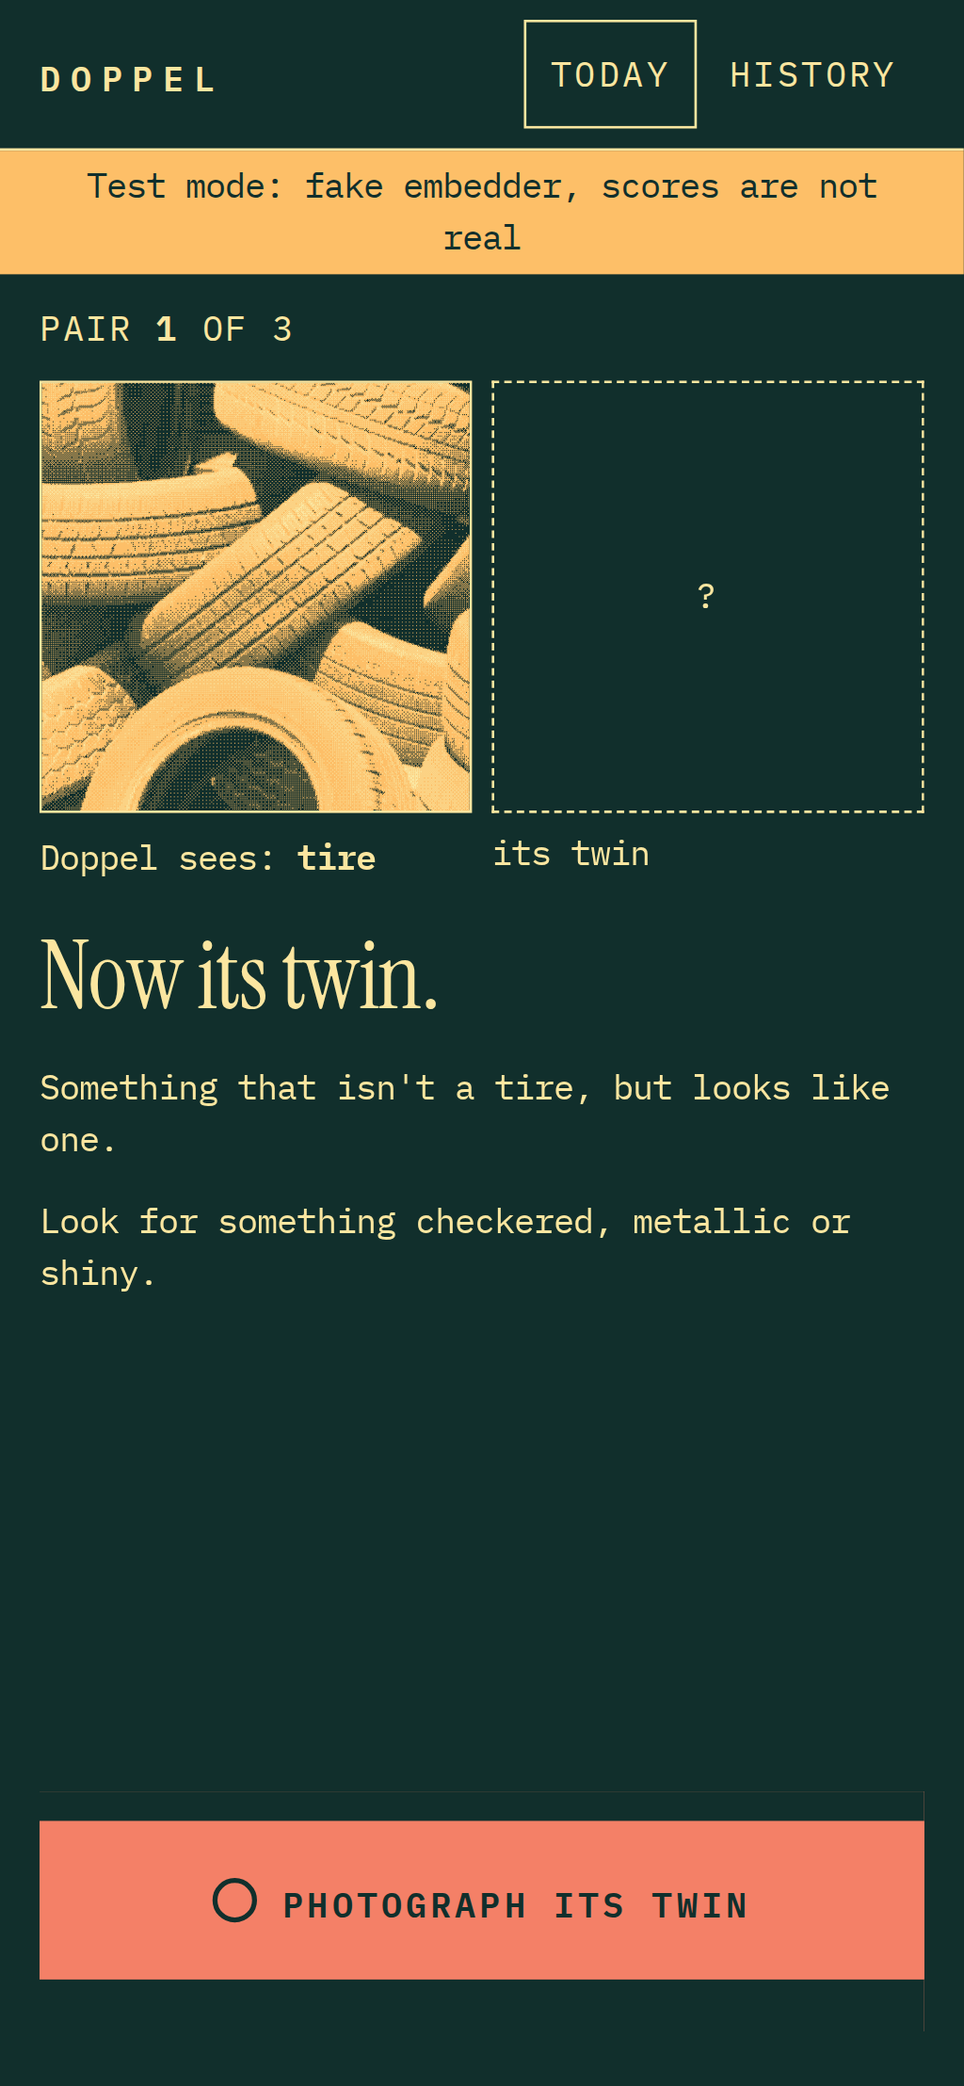
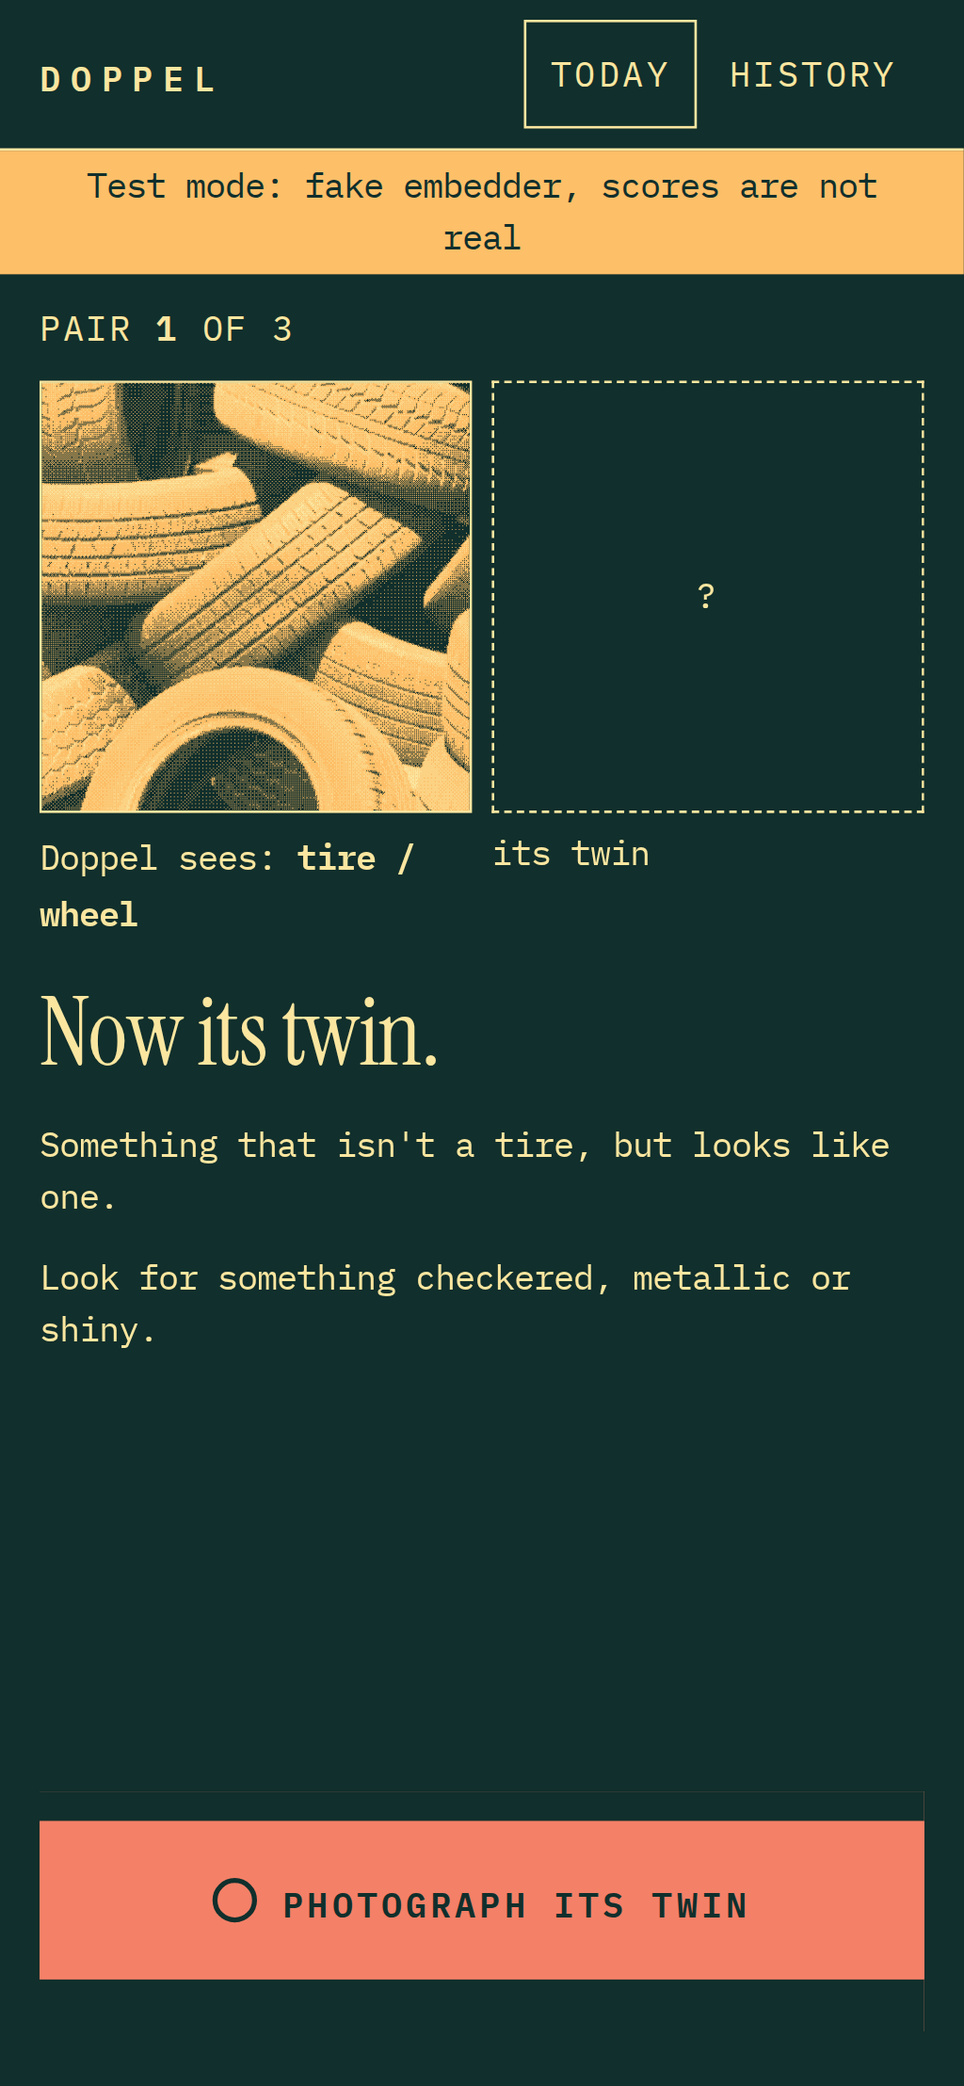
F1: never refuse a clear photo over near-synonym labels; show cloud / sky; regression tests on real vectors

diff --git a/web/src/twin.ts b/web/src/twin.ts
@@ -15,7 +15,9 @@ export interface TwinConfig {
   bands: { uncanny: number; cousins: number; distant: number };
   duplicateSim: number; // photo-photo cosine above this = the same thing twice
   sameKindTextSim: number; // label-label text cosine at or above this = same kind of thing
-  margin: number; // below this the label is a coin toss
+  margin: number; // below this (and below minTopSim) the label is a coin toss
+  synonymTextSim: number; // labels at least this close are near-synonyms ("cloud / sky"), not rivals
+  minTopSim: number; // a photo whose top label is at least this close is never "uncertain"
   attrZ: number; // shared attribute threshold (z-score, both photos)
   attr: { labels: string[]; mu: number[]; sd: number[] };
 }
@@ -79,6 +81,8 @@ export function band(score: number, cfg: Pick<TwinConfig, "bands"> = TWIN): Band
 export interface Reading {
   index: number; // vocab row of the top label
   label: string;
+  alt?: string; // runner-up when it's a near-synonym: "Doppel sees: cloud / sky"
+  topSim: number;
   kind: Kind;
   margin: number;
   /** z-score per attribute, in TwinConfig.attr.labels order */
@@ -111,11 +115,16 @@ export function readPhoto(photo: ArrayLike<number>, vocab: LabelVocab, cfg: Twin
   }
   if (top < 0) throw new Error("vocab has no labels");
   let rival = -Infinity;
+  let second = -1;
   for (let i = 0; i < sims.length; i++) {
     if (i === top || vocab.items[i].kind === "attr") continue;
-    if (labelSim(vocab, top, i) >= cfg.sameKindTextSim) continue; // a synonym isn't a rival
+    if (second < 0 || sims[i] > sims[second]) second = i;
+    if (labelSim(vocab, top, i) >= cfg.synonymTextSim) continue; // a near-synonym isn't a rival
     rival = Math.max(rival, sims[i]);
   }
+  const alt = second >= 0 && vocab.items[second].kind === vocab.items[top].kind && labelSim(vocab, top, second) >= cfg.synonymTextSim
+    ? vocab.items[second].label
+    : undefined;
 
   const byLabel = new Map<string, number>();
   vocab.items.forEach((it, i) => it.kind === "attr" && byLabel.set(it.label, i));
@@ -128,6 +137,8 @@ export function readPhoto(photo: ArrayLike<number>, vocab: LabelVocab, cfg: Twin
   return {
     index: top,
     label: vocab.items[top].label,
+    ...(alt ? { alt } : {}),
+    topSim: sims[top],
     kind: vocab.items[top].kind,
     margin: Number.isFinite(rival) ? sims[top] - rival : 1,
     attrZ,
@@ -145,9 +156,12 @@ export const PROBLEM_TEXT: Record<Problem, string> = {
 };
 
 /** Any photo: must be outdoors-ish and legible. */
-export function checkShot(r: Reading, cfg: Pick<TwinConfig, "margin"> = TWIN): Problem | undefined {
+export function checkShot(r: Reading, cfg: Pick<TwinConfig, "margin" | "minTopSim"> = TWIN): Problem | undefined {
   if (r.kind === "reject") return "outside";
-  if (r.kind === "unclear" || r.margin < cfg.margin) return "uncertain";
+  if (r.kind === "unclear") return "uncertain";
+  // Only a coin toss between different kinds AND a weak match is "can't tell" (F1: a clear
+  // cloud sits between "cloud" and "sky" and must never be refused).
+  if (r.margin < cfg.margin && r.topSim < cfg.minTopSim) return "uncertain";
   return undefined;
 }
 

diff --git a/web/src/ui/screens.ts b/web/src/ui/screens.ts
@@ -32,7 +32,7 @@ const slot = (side: "a" | "b", inner: string, caption = "") => `
     <figcaption>${caption}</figcaption>
   </figure>`;
 
-const sees = (label: string) => `Doppel sees: <b data-testid="sees">${esc(label)}</b>`;
+const sees = (label: string, alt?: string) => `Doppel sees: <b data-testid="sees">${esc(label)}${alt ? ` / ${esc(alt)}` : ""}</b>`;
 
 const shootButton = (text: string) => `
   <label class="shoot">
@@ -109,12 +109,12 @@ export function firstView(pair: number, ideas: string[], firstRun: boolean, prac
 export const lookFor = (looks: string[]) =>
   looks.length ? `<p class="sub" data-testid="look-for">Look for something ${esc(looks.length === 1 ? looks[0] : `${looks.slice(0, -1).join(", ")} or ${looks.at(-1)}`)}.</p>` : "";
 
-export function walkView(pair: number, label: string, w: WalkStatus, looks: string[] = []): string {
+export function walkView(pair: number, label: string, w: WalkStatus, looks: string[] = [], alt?: string): string {
   return `
     <section class="screen walk" aria-label="Walk">
       ${hud(pair, `${w.meters} M WALKED`)}
       <div class="pair">
-        ${slot("a", `<canvas id="print-a" aria-label="Your first photo, printed"></canvas>`, sees(label))}
+        ${slot("a", `<canvas id="print-a" aria-label="Your first photo, printed"></canvas>`, sees(label, alt))}
         ${slot("b", `<div class="countdown">${walkReadout(w)}</div>`, "its twin")}
       </div>
       <h1 class="voice">Find its twin. Walk.</h1>
@@ -135,12 +135,12 @@ export function walkReadout(w: WalkStatus): string {
 
 export const article = (label: string) => (/^[aeiou]/.test(label) ? `an ${label}` : `a ${label}`);
 
-export function twinView(pair: number, label: string, looks: string[] = []): string {
+export function twinView(pair: number, label: string, looks: string[] = [], alt?: string): string {
   return `
     <section class="screen twin" aria-label="Twin photo">
       ${hud(pair)}
       <div class="pair">
-        ${slot("a", `<canvas id="print-a" aria-label="Your first photo, printed"></canvas>`, sees(label))}
+        ${slot("a", `<canvas id="print-a" aria-label="Your first photo, printed"></canvas>`, sees(label, alt))}
         ${slot("b", `<span class="slot-word">?</span>`, "its twin")}
       </div>
       <h1 class="voice">Now its twin.</h1>

diff --git a/web/src/model-eval.ts b/web/src/model-eval.ts
@@ -43,18 +43,21 @@ async function main() {
       const r = judgePair(A, B, `eval#${a}`);
       return {
         set, a, b, labelA: A.reading.label, labelB: B.reading.label, marginA: A.reading.margin, marginB: B.reading.margin,
-        checkA: checkShot(A.reading) ?? null, problem: checkTwin(A, B, vocab) ?? null,
+        checkA: checkShot(A.reading) ?? null, checkB: checkShot(B.reading) ?? null, altA: A.reading.alt ?? null, altB: B.reading.alt ?? null, problem: checkTwin(A, B, vocab) ?? null,
         sim: r.sim, score: r.score, band: r.band, shared: r.shared, looksA: topAttributes(A.reading.attrZ),
       };
     }),
   );
+  // F1 regression: the practice photos (same files as twins/01-*) as first shot and as twin, both ways
+  const pc = shots["twins/01-cloud.jpg"], pt = shots["twins/01-cotton.jpg"];
+  const practice = { cloudFirst: checkShot(pc.reading) ?? null, cottonFirst: checkShot(pt.reading) ?? null, cloudAsTwin: checkTwin(pt, pc, vocab) ?? null, cottonAsTwin: checkTwin(pc, pt, vocab) ?? null, cloud: { label: pc.reading.label, alt: pc.reading.alt ?? null, margin: pc.reading.margin, topSim: pc.reading.topSim } };
   const rejects = Object.keys(shots).filter((n) => n.startsWith("reject/")).map((n) => ({ name: n, label: shots[n].reading.label, kind: shots[n].reading.kind, margin: shots[n].reading.margin, problem: checkShot(shots[n].reading) ?? null }));
   const sorted = [...embedMs].sort((x, y) => x - y);
   const result = {
     adapter: e.info.adapter, loadMs: Math.round(loadMs), images: embedMs.length,
     embedMedianMs: Math.round(sorted[sorted.length >> 1]), embedMaxMs: Math.round(sorted.at(-1)!),
     longTasks: { count: longTasks.length, maxMs: Math.round(Math.max(0, ...longTasks)), totalMs: Math.round(longTasks.reduce((s, x) => s + x, 0)) },
-    pairs, rejects,
+    pairs, rejects, practice,
   };
   await post(`EVAL_RESULT ${JSON.stringify(result)}`);
   await log("EVAL_DONE");

diff --git a/web/tests/unit/practice-regression.test.ts b/web/tests/unit/practice-regression.test.ts
@@ -1,0 +1,37 @@
+// F1 regression, on real model output: the app must accept its own practice
+// photos, as a first shot and as a twin. Vectors are the browser embedder's
+// output for web/public/practice/*.jpg (tests/fixtures/practice-vectors.json).
+import { readFileSync } from "node:fs";
+import { join } from "node:path";
+import { describe, expect, it } from "vitest";
+import meta from "../../../data/vocab-vectors.json";
+import vocabJson from "../../../data/vocab.json";
+import vecs from "../fixtures/practice-vectors.json";
+import { checkShot, checkTwin, readPhoto, type Kind, type LabelVocab } from "../../src/twin";
+
+const buf = readFileSync(join(import.meta.dirname, "../../public", meta.file));
+const vocab: LabelVocab = {
+  items: vocabJson.items.map((i) => ({ label: i.label, kind: i.kind as Kind })),
+  vectors: new Float32Array(buf.buffer, buf.byteOffset, buf.byteLength / 4),
+  dim: meta.dim,
+};
+const shot = (v: number[]) => ({ vector: Float32Array.from(v), reading: readPhoto(v, vocab) });
+
+describe("F1: the practice photos are accepted (real vectors)", () => {
+  const cloud = shot(vecs.cloud), cotton = shot(vecs.cotton);
+  it("reads them as cloud and cotton", () => {
+    expect(cloud.reading.label).toBe("cloud");
+    expect(cotton.reading.label).toBe("cotton");
+  });
+  it("accepts both as a first shot", () => {
+    expect(checkShot(cloud.reading)).toBeUndefined();
+    expect(checkShot(cotton.reading)).toBeUndefined();
+  });
+  it("accepts both as a twin", () => {
+    expect(checkTwin(cotton, cloud, vocab)).toBeUndefined();
+    expect(checkTwin(cloud, cotton, vocab)).toBeUndefined();
+  });
+  it("stays accepted even if a phone GPU shaves the margin to zero", () => {
+    expect(checkShot({ ...cloud.reading, margin: 0 })).toBeUndefined();
+  });
+});

diff --git a/web/src/main.ts b/web/src/main.ts
@@ -163,12 +163,12 @@ async function showToday(seq: number, force = false) {
     return mountDebug(app);
   }
   if (p.kind === "walking") {
-    render(app, walkView(p.pair, pr.first!.label, p.walk, pr.first!.looks ?? []));
+    render(app, walkView(p.pair, pr.first!.label, p.walk, pr.first!.looks ?? [], pr.first!.alt));
     startGps();
     return void printInto(app.querySelector("#print-a"), pr.first!.id, "neutral");
   }
   if (p.kind === "twin") {
-    render(app, twinView(p.pair, pr.first!.label, pr.first!.looks ?? []));
+    render(app, twinView(p.pair, pr.first!.label, pr.first!.looks ?? [], pr.first!.alt));
     startGps(); // keep counting metres until the twin is in
     void printInto(app.querySelector("#print-a"), pr.first!.id, "neutral");
     return wireShoot(seq, "twin");
@@ -260,7 +260,7 @@ async function takePhoto(file: File, which: "first" | "twin", onStatus: (s: stri
     if (problem) return (onStatus(""), onRefused(PROBLEM_TEXT[problem]), false);
     const id = newId();
     await putShot({ id, day: day!.day, ts: now, vector, reading, thumbBlob });
-    day = acceptFirst(day!, { id, ts: now, label: reading.label, looks: topAttributes(reading.attrZ) }, now);
+    day = acceptFirst(day!, { id, ts: now, label: reading.label, ...(reading.alt ? { alt: reading.alt } : {}), looks: topAttributes(reading.attrZ) }, now);
     await setMeta("played", true);
   } else {
     const first = (await shotById(pr.first!.id))!;

diff --git a/web/tests/unit/twin.test.ts b/web/tests/unit/twin.test.ts
@@ -39,6 +39,8 @@ const cfg: TwinConfig = {
   bands: { uncanny: 80, cousins: 55, distant: 30 },
   duplicateSim: 0.97,
   sameKindTextSim: 0.9,
+  synonymTextSim: 0.9,
+  minTopSim: 0.9,
   margin: 0.003,
   attrZ: 1,
   attr: { labels: ["round", "striped"], mu: [0.2, 0.1], sd: [0.1, 0.1] },
@@ -109,6 +111,17 @@ describe("readPhoto", () => {
     const r = readPhoto(unit(w.map((x, i) => x + d[i])), vocab, cfg);
     expect(r.margin).toBeLessThan(cfg.margin);
     expect(checkShot(r, cfg)).toBe("uncertain");
+  });
+  it("names a near-synonym runner-up next to the label (cloud / sky)", () => {
+    const r = readPhoto(e(1, 0.04, 0, 0, 0.23, 0), vocab, cfg);
+    expect([r.label, r.alt].sort()).toEqual(["tire", "wheel"]);
+  });
+  it("F1: a clear photo between two different kinds is accepted when its top match is strong", () => {
+    const w = ROWS[1][2], d = ROWS[2][2];
+    const tie = readPhoto(unit(w.map((x, i) => x + d[i])), vocab, cfg);
+    expect(tie.margin).toBeLessThan(cfg.margin);
+    expect(checkShot({ ...tie, topSim: 0.95 }, cfg)).toBeUndefined(); // strong match: not "can't tell"
+    expect(checkShot(tie, cfg)).toBe("uncertain"); // weak match (0.74): "can't tell"
   });
   it("computes attribute z-scores in config order", () => {
     const r = readPhoto(e(0, 1, 0, 0, 1, 0), vocab, cfg);

diff --git a/web/tests/e2e/day.spec.ts b/web/tests/e2e/day.spec.ts
@@ -75,7 +75,7 @@ test("full day: 3 pairs, reveal, best pair, done for today", async ({ page }) =>
 
   await shoot(page, "twins/02-tire.jpg");
   await expect(page.getByRole("region", { name: "Walk" })).toBeVisible();
-  await expect(page.getByTestId("sees")).toHaveText("tire");
+  await expect(page.getByTestId("sees")).toHaveText(/^tire( \/ [a-z ]+)?$/);
   await expect(page.getByTestId("walk-left")).toHaveText(/^0:4\d$/); // no GPS permission -> timer
   await expect(page.getByTestId("look-for")).toHaveText(/^Look for something .+\.$/);
   await page.clock.runFor(500);
@@ -156,7 +156,7 @@ test("reload during the walk and during the twin shot restores state; the timer 
   await expect(page.getByRole("region", { name: "Twin photo" })).toBeVisible();
   await page.reload();
   await expect(page.getByRole("region", { name: "Twin photo" })).toBeVisible();
-  await expect(page.getByTestId("sees")).toHaveText("tree bark");
+  await expect(page.getByTestId("sees")).toHaveText(/^tree bark( \/ [a-z ]+)?$/);
   await shoot(page, "twins/03-elephant-skin.jpg");
   await expect(page.getByRole("region", { name: "Reveal" })).toBeVisible();
   await page.reload();

diff --git a/web/tests/unit/day.test.ts b/web/tests/unit/day.test.ts
@@ -144,7 +144,7 @@ describe("persistence: reload mid-round restores state", () => {
   });
   it("stores the first photo's vector so the twin can be compared after a reload", async () => {
     const vector = Float32Array.from({ length: 768 }, (_, i) => Math.sin(i));
-    await putShot({ id: "a", day: "2026-10-11", ts: T0, vector, reading: { index: 3, label: "tire", kind: "thing", margin: 0.05, attrZ: [1, 2] }, thumbBlob: new Blob(["x"]) });
+    await putShot({ id: "a", day: "2026-10-11", ts: T0, vector, reading: { index: 3, label: "tire", kind: "thing", margin: 0.05, topSim: 0.7, attrZ: [1, 2] }, thumbBlob: new Blob(["x"]) });
     _resetDbForTests();
     const s = (await getShot("a"))!;
     expect(Array.from(s.vector)).toEqual(Array.from(vector));

diff --git a/web/src/day.ts b/web/src/day.ts
@@ -13,6 +13,7 @@ export interface ShotRef {
   id: string;
   ts: number;
   label: string;
+  alt?: string; // near-synonym runner-up ("cloud / sky")
   looks?: string[]; // its strongest attributes, the hint for finding a twin
 }
 

diff --git a/tools/twin_calibrate.py b/tools/twin_calibrate.py
@@ -180,7 +180,9 @@ def main():
         out["bands"] = {"uncanny": 80, "cousins": 50, "distant": 30}  # cousins 55 -> 50 after the D7 model eval (LOG.md)
         out["duplicateSim"] = 0.97  # photo-photo cosine above this = the same thing twice (max seen between different objects: 0.919)
         out["sameKindTextSim"] = 0.90  # label text cosine; honeycomb~hexagonal tiles is 0.869 (a twin), rock~boulder 0.946 (same kind)
-        out["margin"] = 0.003  # top-1 minus best label of a different kind; ~3% of 67 photos fall below
+        out["margin"] = 0.003  # top-1 minus best label of a different kind (text sim < synonymTextSim)
+        out["synonymTextSim"] = 0.85  # labels this close are near-synonyms: shown together ("cloud / sky"), never rivals (F1)
+        out["minTopSim"] = 0.67  # uncertain needs a small margin AND a top-label sim below this; lowest clear photo: 0.681 (F1)
         out["attrZ"] = 1.0  # an attribute is shared when both photos are >= 1.0 sd above its mean
         save_candidates(diff_pairs[:10], lo, hi)
         (ROOT / "data" / "twin-scoring.json").write_text(json.dumps(out, indent=1) + "\n")

diff --git a/docs/eval.md b/docs/eval.md
@@ -2,7 +2,7 @@
 
 Real EmbeddingGemma 2 (text+vision 440M, LiteRT-LM, WebGPU) in headless Microsoft Edge on amd gcn-5, over the CC0 fixtures in `web/tests/fixtures/`, judged by the functions the app ships (`web/src/twin.ts`, constants in `data/twin-scoring.json`). Generated by `npm run test:model` (`web/scripts/model-eval.mjs`).
 
-Commit `e1572de`, 2026-10-11 05:22 UTC.
+Commit `d2335e9`, 2026-10-11 06:01 UTC.
 
 ## Pass criteria
 
@@ -13,42 +13,44 @@ Commit `e1572de`, 2026-10-11 05:22 UTC.
 | ≥ 6 of 8 strangers score Distant or worse | 8 of 8 | PASS |
 | ≥ 3 of 4 same-kind pairs rejected as same kind | 3 of 4 | PASS |
 | All 4 reject images rejected or uncertain | 4 of 4 | PASS |
+| F1: practice photos accepted as first shot and as twin | {"cloudFirst":null,"cottonFirst":null,"cloudAsTwin":null,"cottonAsTwin":null,"cloud":{"label":"cloud","alt":"sky","margin":0.047686809899136096,"topSim":0.7416448010091206}} | PASS |
+| F1: no twins/ or strangers/ photo refused as uncertain or outside | 0 refused | PASS |
 | What they share: ≥ 1 attribute for ≥ 6 of 8 twins (sense judged in LOG.md) | 8 of 8 | PASS |
 
 ## Twins (different kinds of thing that look alike)
 
 | Pair | Doppel sees | cosine | Score | Band | What they share | Rule |
 |---|---|---|---|---|---|---|
-| cloud ↔ cotton | cloud ↔ cotton | 0.807 | **85** | Uncanny | fluffy · puffy · white | – |
-| donut ↔ tire | donut ↔ tire | 0.694 | **18** | Strangers | ring-shaped | – |
-| elephant-skin ↔ tree-bark | elephant skin ↔ tree bark | 0.856 | **100** | Uncanny | ridged · layered · wrinkled | – |
-| broccoli ↔ moss | broccoli ↔ moss | 0.749 | **50** | Cousins | green · leafy | – |
-| artichoke ↔ pinecone | artichoke ↔ pinecone | 0.810 | **86** | Uncanny | cone-shaped · spiky · scaly | – |
-| brick-wall ↔ chocolate-bar | brick wall ↔ chocolate bar | 0.770 | **62** | Cousins | brown · checkered · layered | – |
-| hexagonal-tiles ↔ honeycomb | hexagonal tiles ↔ honeycomb | 0.776 | **66** | Cousins | hexagonal · grid-like · checkered | – |
+| cloud ↔ cotton | cloud / sky ↔ cotton / cotton candy | 0.807 | **85** | Uncanny | fluffy · puffy · white | – |
+| donut ↔ tire | donut / bagel ↔ tire / wheel | 0.694 | **18** | Strangers | ring-shaped | – |
+| elephant-skin ↔ tree-bark | elephant skin / snake skin ↔ tree bark / tree trunk | 0.856 | **100** | Uncanny | ridged · layered · wrinkled | – |
+| broccoli ↔ moss | broccoli / cauliflower ↔ moss / lichen | 0.749 | **50** | Cousins | green · leafy | – |
+| artichoke ↔ pinecone | artichoke ↔ pinecone / pine needles | 0.810 | **86** | Uncanny | cone-shaped · spiky · scaly | – |
+| brick-wall ↔ chocolate-bar | brick wall / stone wall ↔ chocolate bar | 0.770 | **62** | Cousins | brown · checkered · layered | – |
+| hexagonal-tiles ↔ honeycomb | hexagonal tiles / honeycomb ↔ honeycomb / bee | 0.776 | **66** | Cousins | hexagonal · grid-like · checkered | – |
 | striped-awning ↔ zebra | striped awning ↔ zebra | 0.659 | **0** | Strangers | striped · checkered | – |
 
 ## Strangers (don't look alike)
 
 | Pair | Doppel sees | cosine | Score | Band | What they share | Rule |
 |---|---|---|---|---|---|---|
-| brick-wall ↔ sky | brick wall ↔ mountain | 0.730 | **39** | Distant | orange | – |
+| brick-wall ↔ sky | brick wall / stone wall ↔ mountain / hill | 0.730 | **39** | Distant | orange | – |
 | car ↔ grass | car ↔ grass | 0.683 | **11** | Strangers | Not much, honestly. | – |
 | fire-hydrant ↔ lake | fire hydrant ↔ lake | 0.678 | **8** | Strangers | pointed | – |
-| rose ↔ sand | rose ↔ sand | 0.727 | **37** | Distant | pink | uncertain |
+| rose ↔ sand | rose / flower ↔ sand | 0.727 | **37** | Distant | pink | – |
 | snow ↔ stop-sign | snow ↔ stop sign | 0.649 | **0** | Strangers | Not much, honestly. | – |
-| mountain ↔ tulip | mountain ↔ tulip | 0.698 | **20** | Strangers | Not much, honestly. | – |
-| pumpkin ↔ street-lamp | pumpkin ↔ street lamp | 0.714 | **30** | Distant | Not much, honestly. | – |
+| mountain ↔ tulip | mountain ↔ tulip / flower | 0.698 | **20** | Strangers | Not much, honestly. | – |
+| pumpkin ↔ street-lamp | pumpkin / pumpkin patch ↔ street lamp / utility pole | 0.714 | **30** | Distant | Not much, honestly. | – |
 | bicycle ↔ lake | bicycle ↔ lake | 0.688 | **14** | Strangers | Not much, honestly. | – |
 
 ## Same kind (should be refused)
 
 | Pair | Doppel sees | cosine | Score | Band | What they share | Rule |
 |---|---|---|---|---|---|---|
-| rock-a ↔ rock-b | boulder ↔ ocean waves | 0.804 | **82** | Uncanny | rough | – |
-| leaf-a ↔ leaf-b | leaf ↔ leaf | 0.797 | **78** | Cousins | green · leafy · wrinkled | same-kind |
-| bench-a ↔ bench-b | bench ↔ bench | 0.838 | **100** | Uncanny | wooden | same-kind |
-| tree-a ↔ tree-b | tree ↔ tree | 0.876 | **100** | Uncanny | Not much, honestly. | same-kind |
+| rock-a ↔ rock-b | boulder / rock ↔ ocean waves | 0.804 | **82** | Uncanny | rough | – |
+| leaf-a ↔ leaf-b | leaf ↔ leaf / fern | 0.797 | **78** | Cousins | green · leafy · wrinkled | same-kind |
+| bench-a ↔ bench-b | bench / picnic table ↔ bench / picnic table | 0.838 | **100** | Uncanny | wooden | same-kind |
+| tree-a ↔ tree-b | tree / tree roots ↔ tree | 0.876 | **100** | Uncanny | Not much, honestly. | same-kind |
 
 ## Not allowed or unreadable (should be refused)
 
@@ -61,6 +63,6 @@ Commit `e1572de`, 2026-10-11 05:22 UTC.
 
 ## Timings (same run, not CPU-throttled)
 
-- Model load from the browser cache: 6663 ms
-- Photo embed: median 1720 ms, max 1959 ms over 44 photos
-- Main-thread long tasks while embedding 44 photos: 2, longest 183 ms, total 249 ms
+- Model load from the browser cache: 8043 ms
+- Photo embed: median 1719 ms, max 1917 ms over 44 photos
+- Main-thread long tasks while embedding 44 photos: 1, longest 181 ms, total 181 ms
